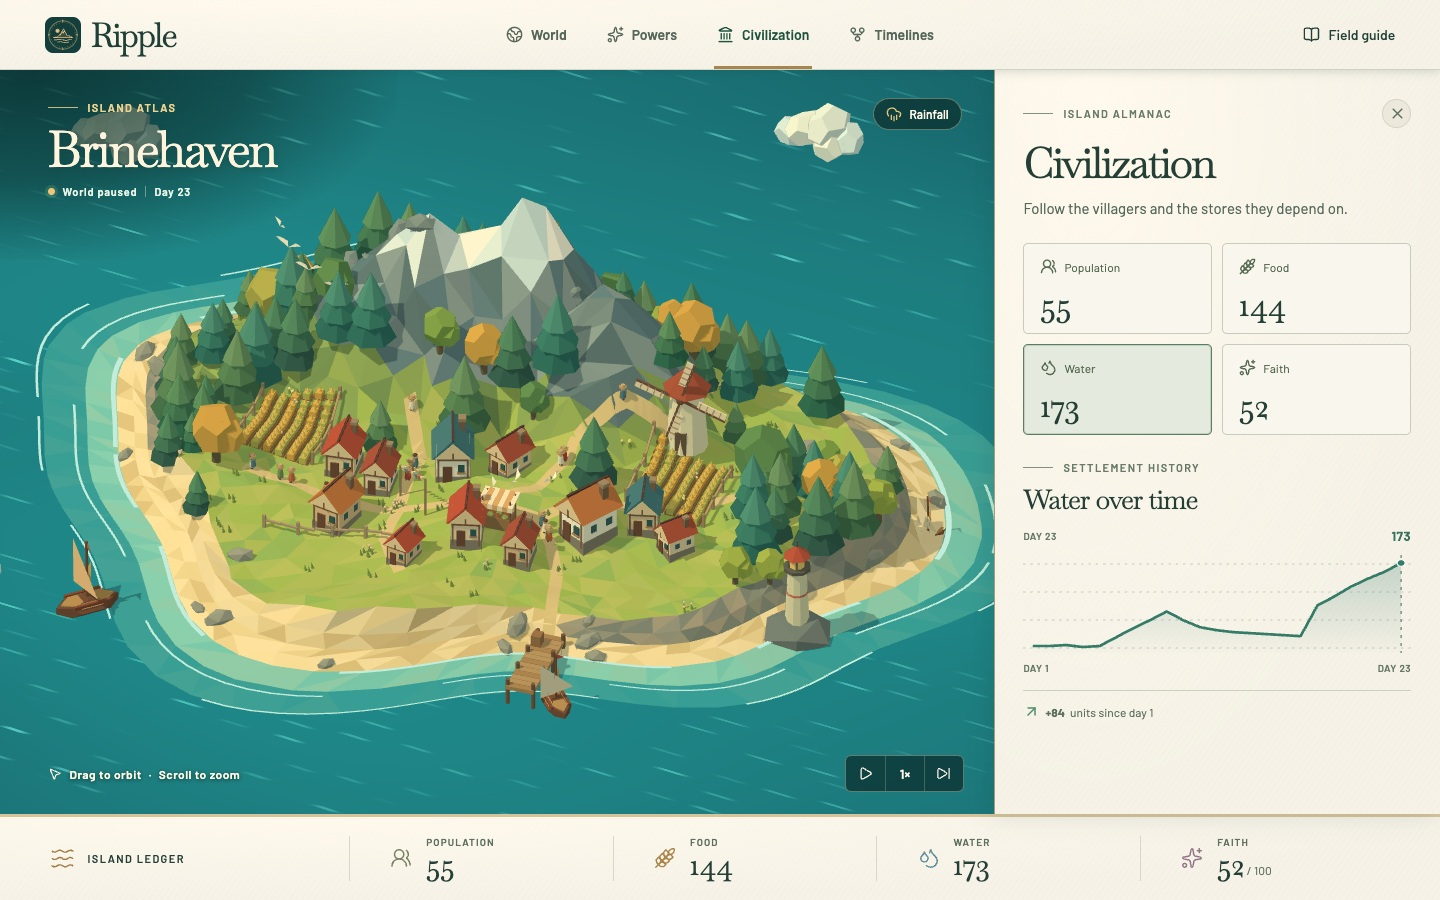
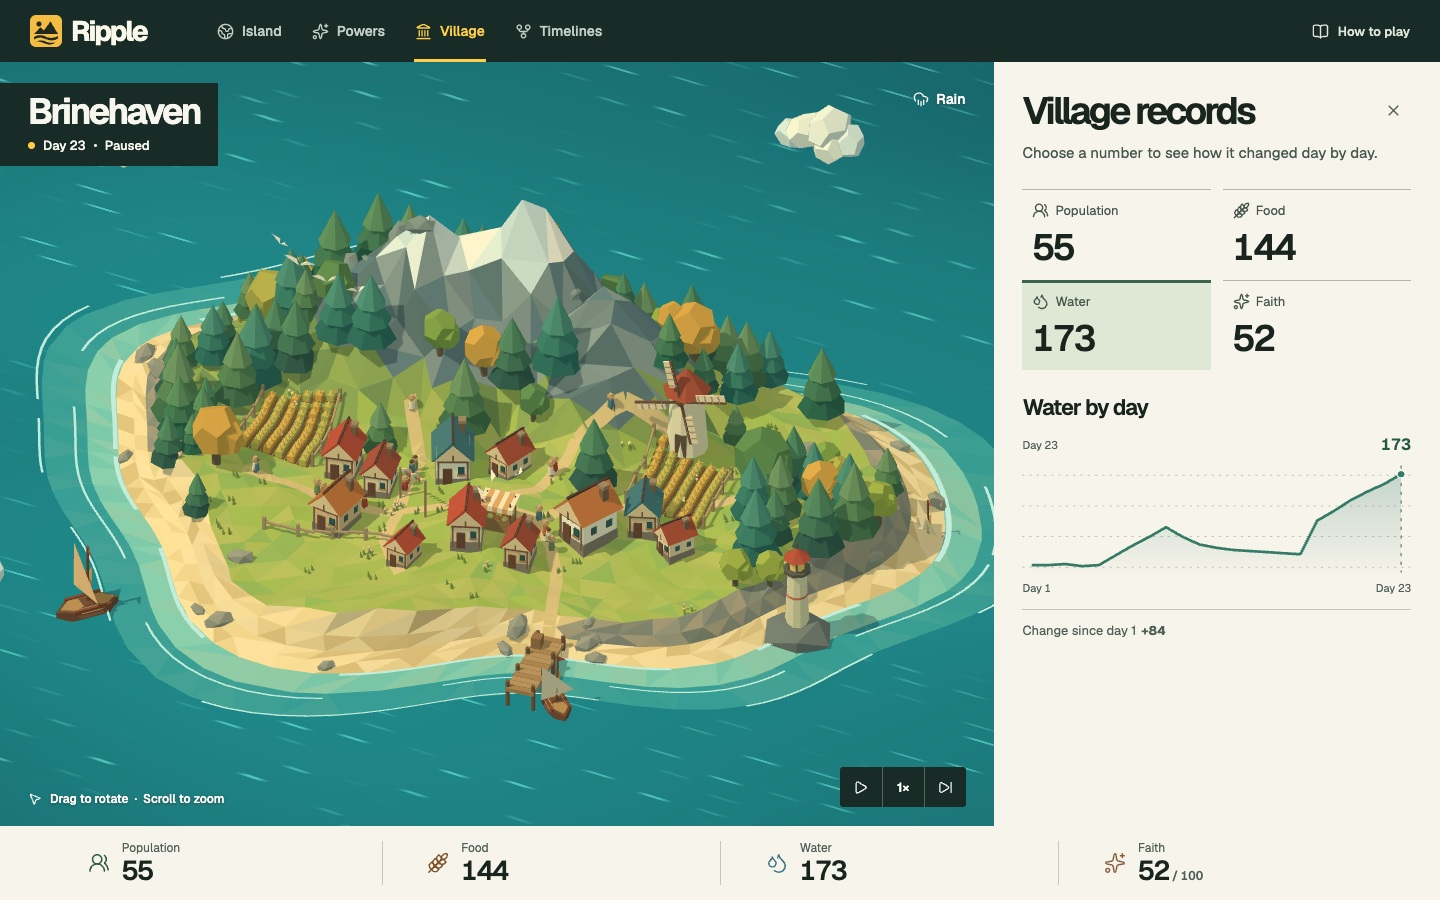
Rewrite the player's guide and refresh all five live screenshots

diff --git a/README.md b/README.md
@@ -1,40 +1,38 @@
-<p align="center"><img src="public/ripple-mark.svg" width="84" alt="Ripple island seal"></p>
+<p align="center"><img src="public/ripple-mark.svg" width="84" alt="Ripple island emblem"></p>
 <h1 align="center">Ripple · Gods of Consequence</h1>
-<p align="center">An island god game about weather, small decisions, and the people who live with them.</p>
+<p align="center">Brinehaven grows its own food. As the island's god, you can send rain when the fields start to dry out.</p>
 <p align="center"><strong><a href="https://ripple-gods-of-consequence.onrender.com">Play Live Demo</a></strong></p>
-<p align="center"><a href="https://webassembly.org/"><img alt="Rust simulation compiled to WebAssembly" src="https://img.shields.io/badge/simulation-Rust%20%2B%20WebAssembly-22554c?style=flat-square"></a></p>
+<p align="center"><a href="https://webassembly.org/"><img alt="Rust simulation running in WebAssembly" src="https://img.shields.io/badge/simulation-Rust%20%2B%20WebAssembly-22554c?style=flat-square"></a></p>
 
-![An isometric view across Brinehaven, with mountains behind the village and farmland along the coast](docs/screenshots/world-overview.jpg)
+![Brinehaven's windmill, fields and harbor below the mountain ridge](docs/screenshots/world-overview.jpg)
 
-Brinehaven's villagers need water to raise their crops. Sunshine can fill the granary while it drains the cistern. Call rain today and watch the next few harvests, or fork the island's history and see what a storm would have cost.
+## Your first day
 
-## Arrive at Brinehaven
+You arrive in Brinehaven on day 18. There are 53 people on the island and 98 units of water in the cistern. Pause the clock and drag the island around to look at the farms behind the village. When you come back, the game picks up from the last day saved in this browser.
 
-Enter the world from the main menu. The island opens with seventeen simulated days already in its ledger. Drag the map to find the village, then pause the clock to take a closer look. The game saves the settlement in your browser after each change.
+![The Ripple title screen overlooking Brinehaven](docs/screenshots/main-menu.jpg)
 
-![The Ripple title screen with the island and the entrance to the field guide](docs/screenshots/main-menu.jpg)
+## Rain or shine?
 
-## Change the weather
+If you call rain on that first day, the cistern jumps from 98 to 130 and the fields get five days of rain. Sunshine brings in more food right away, at the cost of some water. A harvest blessing raises food stores and faith. A storm brings water too, but it costs the village crops and lives.
 
-Call rain to replenish water, bring sunshine to ripen crops, bless the harvest to increase food and faith, or summon a storm. Each power changes the settlement immediately and sets the weather for several days. The island ledger shows what the village has left to work with.
+![Rain falling on the village after the player calls it from the powers panel](docs/screenshots/god-powers.jpg)
 
-![The god powers panel after rain falls over the island](docs/screenshots/god-powers.jpg)
+## Village records
 
-## Read the settlement history
+Open Village when food runs low. A look at the water chart can help explain a poor harvest. Farmers bring in less food when the cistern is nearly empty. You can trace food, water, population or faith for the past 60 days. Select a measure and move along its chart to read the value on a particular day.
 
-Open **Civilization** and select population, food, water, or faith. Move across the chart to inspect a day. The ledger keeps up to sixty days, so you can see when a shortage began and how long the village took to recover.
+![Brinehaven's water supply plotted by day beside the island](docs/screenshots/civilization-dashboard.jpg)
 
-![The civilization dashboard with the village's resource totals and water history](docs/screenshots/civilization-dashboard.jpg)
+## Try a storm on a branch
 
-## Follow the other timeline
+Open Timelines and start a branch from today's village. Send the branch a storm, then run one week to see what happens. The other village goes through the same week with its usual weather. Read down the columns to see how much food each village has left and how many people live there. You can also plot the days in between. Both forecasts run separately from your saved island.
 
-Open **Timelines**, choose **Create a branch**, and give it one intervention. **Compare outcomes** runs both futures for seven days from the same snapshot. The table shows the differences at the end of the week. Change the chart's measure to see when the two histories diverged. Your live settlement keeps its own history.
+![Population and stores one week after a storm, alongside the figures for the village that followed its usual weather](docs/screenshots/timeline-comparison.jpg)
 
-![A seven-day comparison of an untouched island and a branch hit by a storm](docs/screenshots/timeline-comparison.jpg)
+## Local setup
 
-## Run locally
-
-Use Bun 1.3.10 and Node.js 24. The repository includes the compiled simulation.
+Use Bun 1.3.10 and Node.js 24. The compiled simulation ships with the game.
 
 ```sh
 git clone https://github.com/dylangrijalva/ripple-gods-of-consequence.git
@@ -43,32 +41,31 @@ bun install --frozen-lockfile
 bun run dev
 ```
 
-Open the local address printed by Vite. For a production build, run `bun run build` followed by `bun start`. Bun serves the game at `http://localhost:3000`. Set `PORT` to change the port.
+Vite prints the address to open in your browser. To serve the production version, run `bun run build`, then `bun start`. The default address is `http://localhost:3000`. You can choose another port with `PORT`.
 
 ## Controls
 
 | Input | Action |
 | --- | --- |
-| Drag the island | Orbit the camera |
-| Scroll | Zoom in or out |
-| **1**, **2**, **3**, **4** | Open World, Powers, Civilization, or Timelines |
-| **Space** | Pause or resume the simulation while the map has focus |
-| **.** | Advance one day |
-| **Esc** | Close the guide, return to the map, or return to the main menu |
-| **?** | Open the field guide |
-| Click the speed multiplier | Cycle through 1×, 2×, and 4× speed |
-| Arrow keys on a focused chart slider | Inspect an earlier or later day |
+| Drag | Turn the island |
+| Scroll | Zoom |
+| 1, 2, 3, 4 | Open Island, Powers, Village or Timelines |
+| Space | Pause or resume time with the map in focus |
+| Period (.) | Step forward one day |
+| Esc | Close the guide or panel. On the map, return to the title screen. |
+| ? | Open How to play |
+| Click the clock speed | Switch between 1×, 2× and 4× |
+| Arrow keys with the chart slider in focus | Read the previous or next day |
 
-## How it works
+## Inside the game
 
-| Layer | Responsibility |
-| --- | --- |
-| Bun | Serves the built client, the Wasm binary, and the island name and seed at `GET /api/world`. Render runs the production Docker image. |
-| Rust and WebAssembly | Calculate each day's weather, harvest, consumption, population, and faith. The browser passes a complete island snapshot into each transition, so two branches can evolve independently. |
-| React and TypeScript | Manage the clock, the sixty-day chronicle, browser saves, the almanac, and timeline comparisons. |
-| Three.js | Builds and lights the island from seeded geometry, animates the settlement, and draws interventions in the world. |
+Bun serves the client and its Wasm file from one Docker container on Render. The browser gets Brinehaven's name and seed from `GET /api/world`. Three.js uses the seed to build and light the island, and animates the villagers and the weather you call down.
 
-## Test and capture
+Rust handles the daily harvest, water use and population changes. It runs in the browser through WebAssembly. Each turn takes a full copy of the village's state, including the weather and faith. Two branches can start with the same village and carry on independently from that turn.
+
+React and TypeScript run the clock and keep the last 60 days in browser storage. Those daily records supply the charts and the starting point for a branch.
+
+## Tests and screenshots
 
 ```sh
 bun test                        # Bun server and shipped Wasm
@@ -78,9 +75,9 @@ bun run test:e2e                # Desktop gameplay and a phone-sized viewport
 bun run screenshots             # Capture the five README images at 1440 × 900
 ```
 
-The browser checks start a local production server. To exercise a deployment, set `GAME_URL` to its origin before running the tests or screenshot command. Playwright waits for the game and fonts to load and operates the same controls as a player.
+Playwright starts the production build locally, opens the game and plays through both screen sizes. For screenshots, it waits for the island and fonts to finish loading. Set `GAME_URL` to a deployed game's origin to run the same checks or capture screenshots there.
 
-For simulation development, install Rust with rustup. The toolchain and WebAssembly target are pinned in `sim/rust-toolchain.toml`.
+To work on the simulation, install Rust with rustup. The build reads its toolchain version and WebAssembly target from `sim/rust-toolchain.toml`.
 
 ```sh
 (cd sim && cargo test --locked)
@@ -88,10 +85,10 @@ sh sim/build.sh
 git diff --exit-code -- public/simulation.wasm
 ```
 
-The last command checks whether rebuilding changes the shipped binary. When changing the simulation, commit the updated binary alongside its Rust source.
+The last command reports any difference between your build and the committed Wasm file. If you change the Rust simulation, commit the rebuilt binary with it.
 
 ## Roadmap
 
-- Save named timeline branches and reopen them across sessions.
-- Add island seeds with different coastlines and starting settlements.
-- Let players follow individual households through a shortage and its recovery.
+- Name a branch and pick it up again next time you play.
+- Explore other coastlines with villages of different starting sizes.
+- Follow a household through a food shortage and see how it fares when supplies return.
